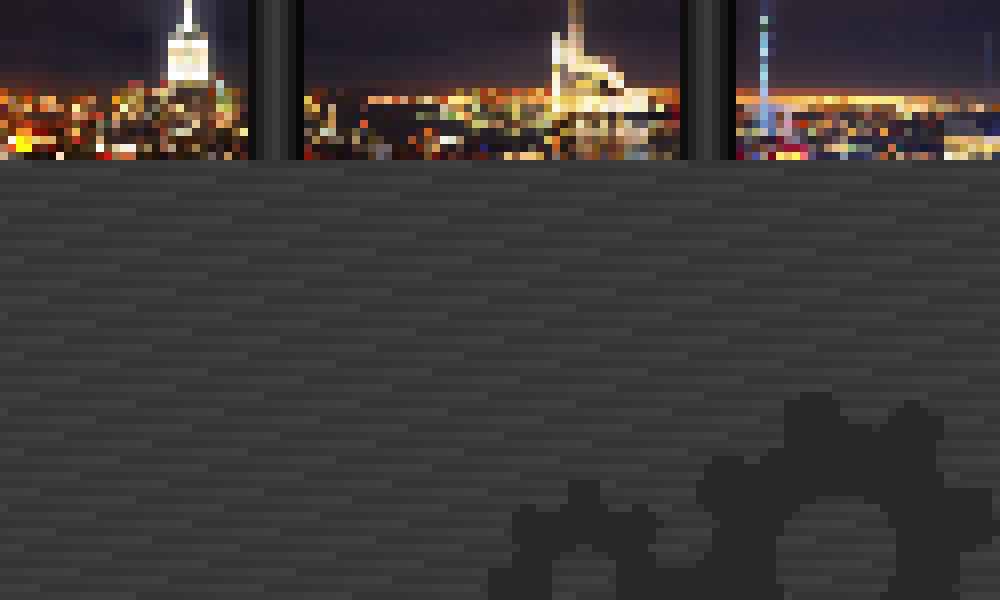
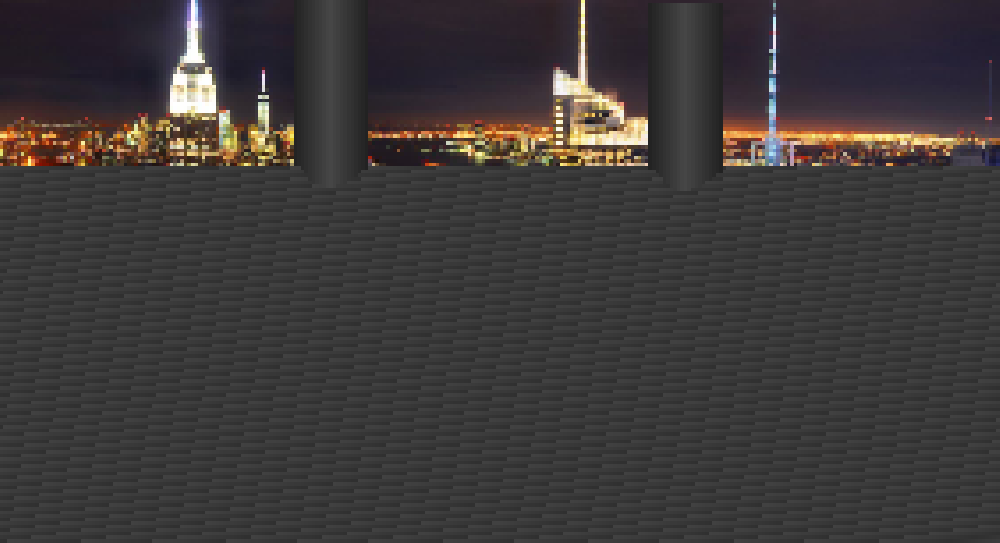
changed background

diff --git a/LeaveMeAlone/BattleManager.cs b/LeaveMeAlone/BattleManager.cs
@@ -445,7 +445,7 @@ namespace LeaveMeAlone
         {
             //Do Background drawing
 
-            spriteBatch.Draw(bkgd, new Rectangle(0, -25, 1000, 600), Color.White);
+            spriteBatch.Draw(bkgd, new Rectangle(-100, -25, 1000, 543), Color.White);
             //Draw Heroes
             for (int i = 0; i < 4; i++)
             {
